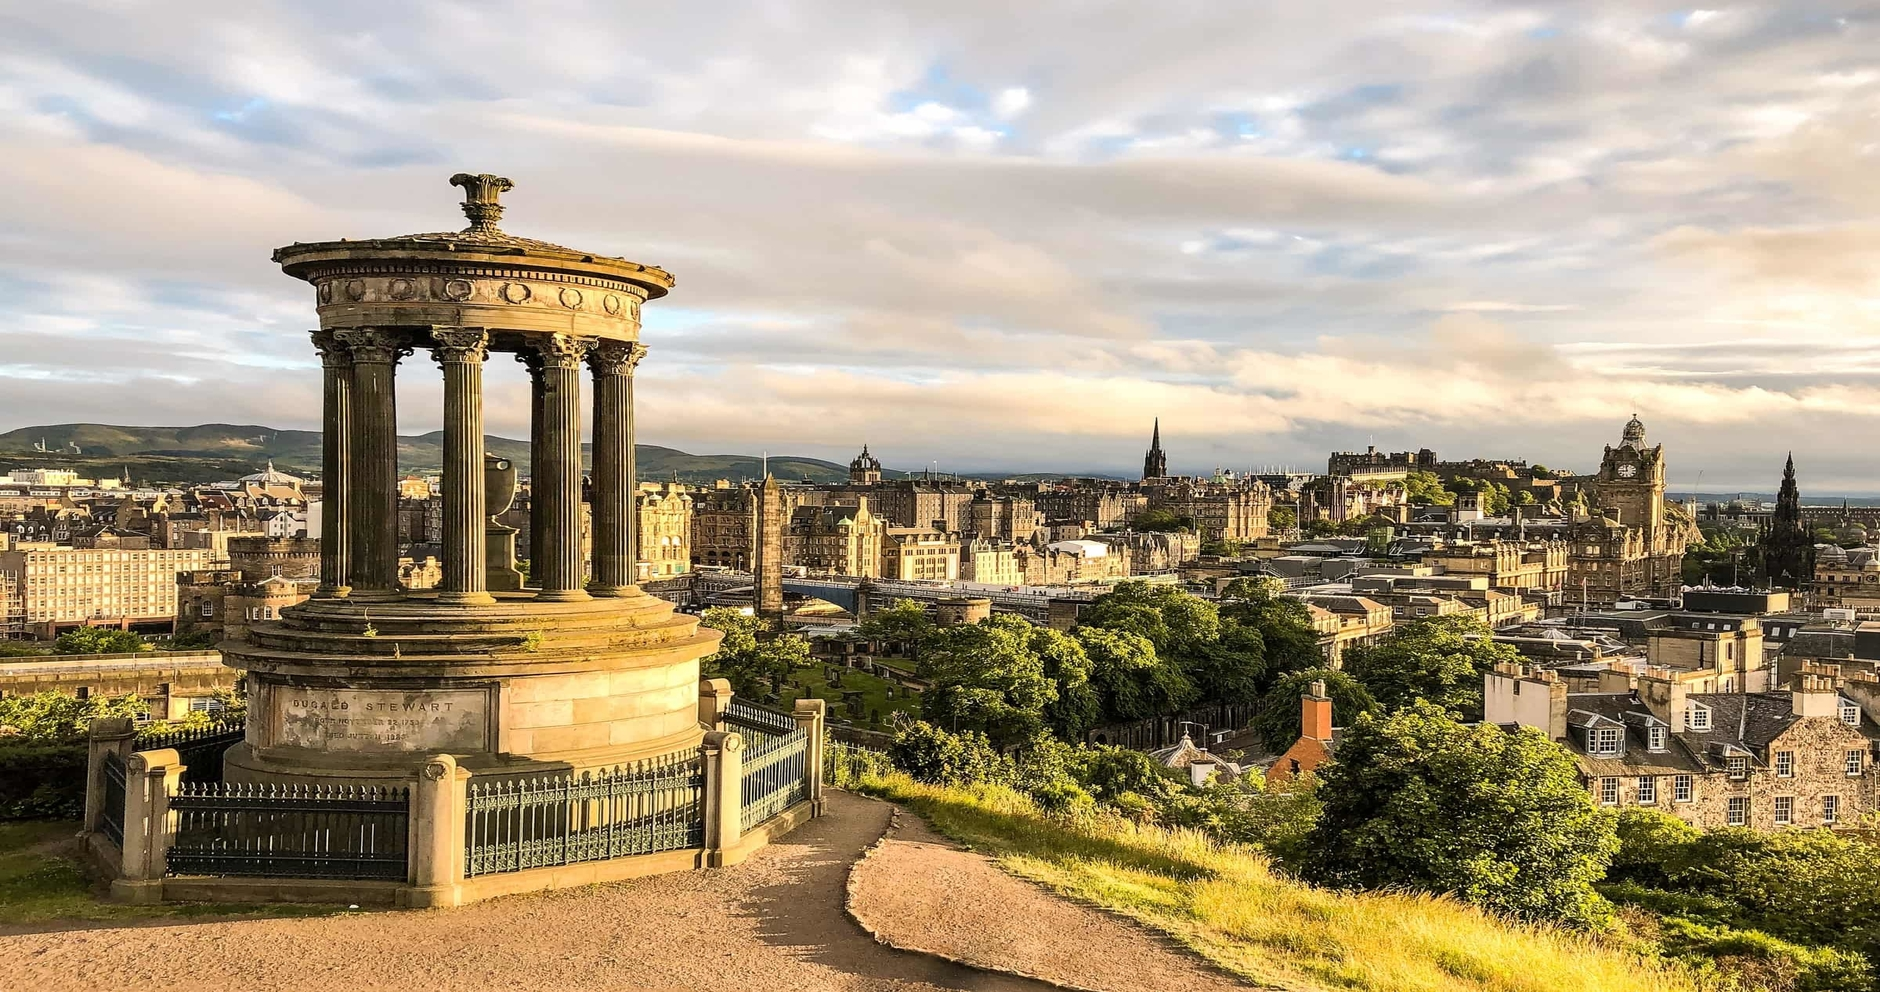
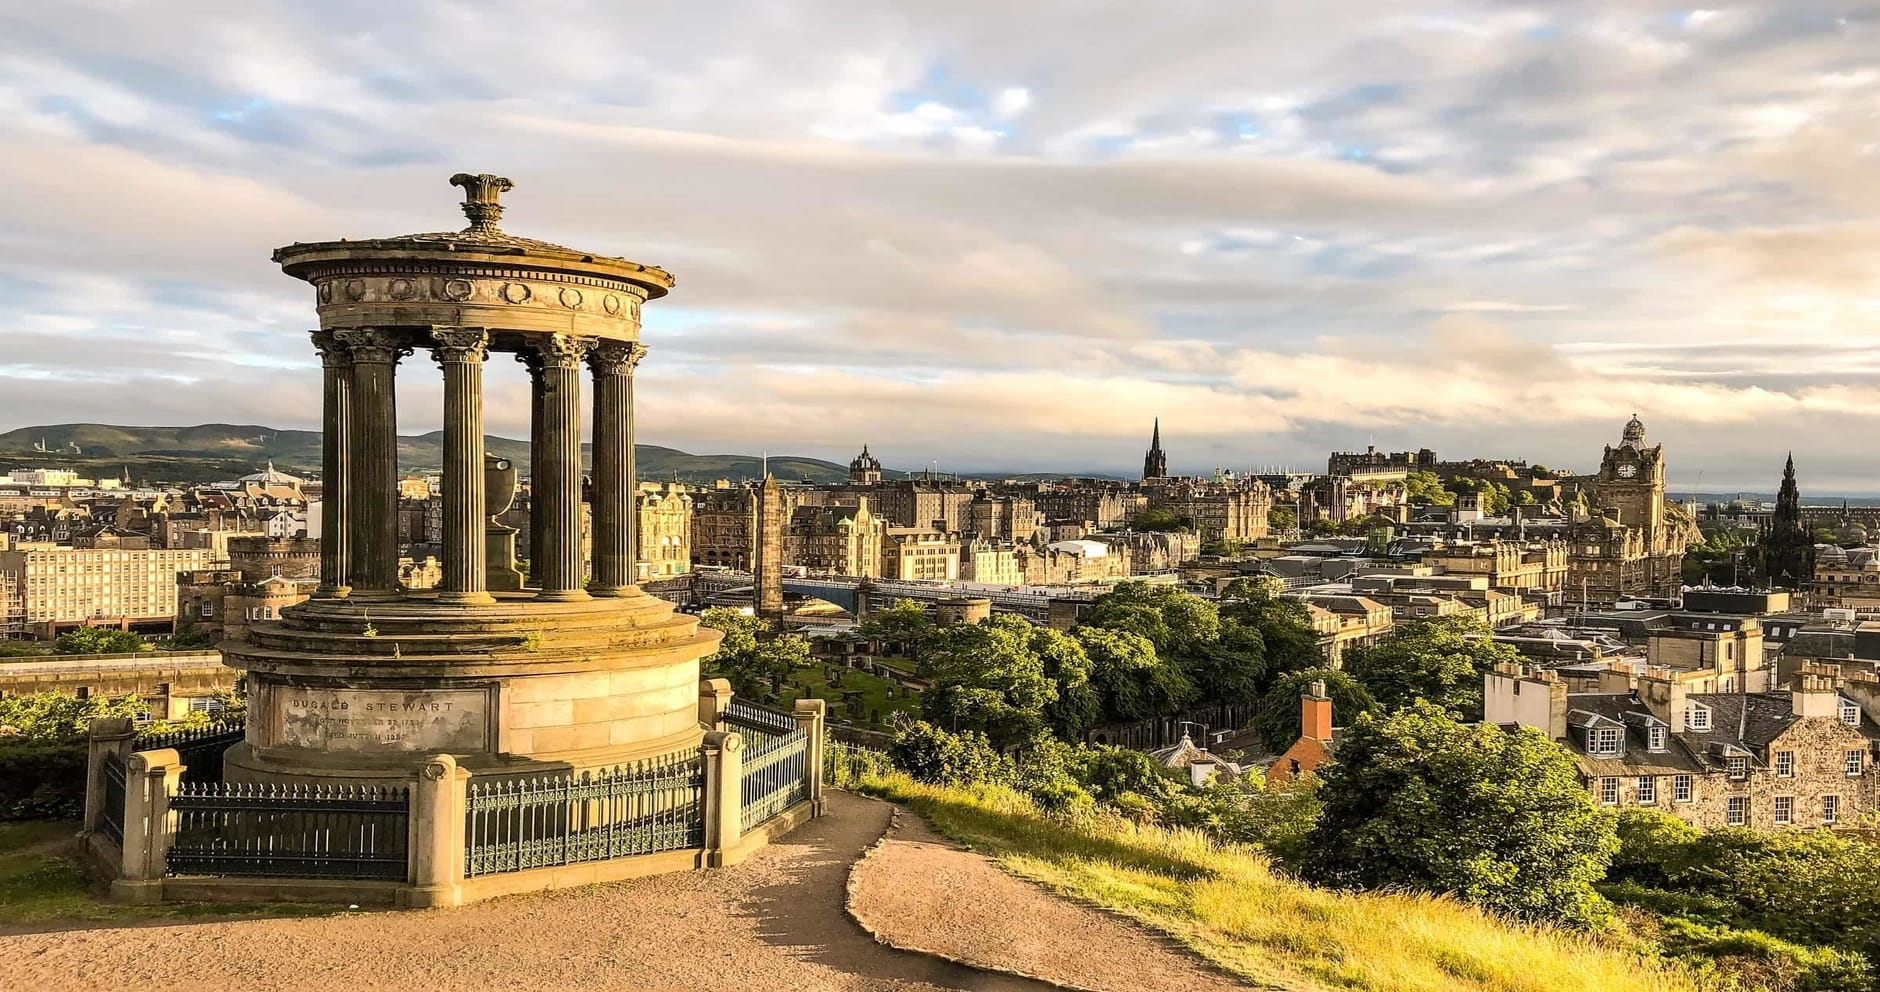
Uploaded compresses Calton Hill image file, deleted unused image

diff --git a/sights.html b/sights.html
@@ -29,15 +29,15 @@ though it appears here as a heavily edited and changes version, with image conte
 on the following web page: https://www.w3schools.com/bootstrap/bootstrap_images.asp-->
         <div class="container-fluid">
              <div class="row no-gutters">
-                <div class="col-12 col-md-6 col-xl-6">
+                <div class="col-12 col-md-6">
                     <figure class="figure no-gutters">
                         <a href="#landmarks">
-                        <img class="figure-img img-fluid img-responsive" src="assets/images/bridge.jpg" alt="Forth Rail Bridge Edinburgh">
+                        <img class="figure-img img-fluid" src="assets/images/bridge.jpg" alt="Forth Rail Bridge Edinburgh">
                         <fig-caption class="figure-caption">Landmarks</fig-caption>
                         </a>
                     </figure>
                 </div>
-                 <div class="col-12 col-md-6 col-xl-6">
+                 <div class="col-12 col-md-6">
                     <figure class="figure no-gutters">
                         <a href="#monuments">
                         <img class="figure-img img-fluid" src="assets/images/caltonnew.jpg" alt="Burns Monument Calton Hill Edinburgh">
@@ -47,7 +47,7 @@ on the following web page: https://www.w3schools.com/bootstrap/bootstrap_images.
                 </div>
             </div>
             <div class="row no-gutters">
-                <div class="col-12 col-md-6 col-xl-6">
+                <div class="col-12 col-md-6">
                     <figure class="figure no-gutters">
                         <a href="#tours">
                         <img class="figure-img img-fluid" src="assets/images/arthursseat.jpg" alt="Edinburgh tours">
@@ -55,7 +55,7 @@ on the following web page: https://www.w3schools.com/bootstrap/bootstrap_images.
                         </a>
                     </figure>
                 </div>
-                <div class="col-12 col-md-6 col-xl-6">
+                <div class="col-12 col-md-6">
                     <figure class="figure no-gutters">
                         <a href="#festivals">
                         <img class="figure-img img-fluid" src="assets/images/festivals5.jpg" alt="Edinburgh festival">
@@ -64,7 +64,7 @@ on the following web page: https://www.w3schools.com/bootstrap/bootstrap_images.
                     </figure>
                 </div>
             <div class="row no-gutters">
-                <div class="col-12 col-md-6 col-xl-6">
+                <div class="col-12 col-md-6">
                     <figure class="figure no-gutters">
                         <a href="#libraries">
                         <img class="figure-img img-fluid" src="assets/images/library.jpg" alt="library">
@@ -72,7 +72,7 @@ on the following web page: https://www.w3schools.com/bootstrap/bootstrap_images.
                         </a>
                     </figure>
                 </div>
-                 <div class="col-12 col-md-6 col-xl-6">
+                 <div class="col-12 col-md-6">
                     <figure class="figure no-gutters">
                         <a href="#bookshops">
                         <img class="figure-img img-fluid" src="assets/images/books.jpg" alt="bookshop books">
